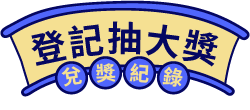
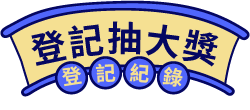
登記抽大獎 兌獎紀錄>登記紀錄

Changed region(s): [[0.364, 0.5727, 0.476, 0.7636], [0.252, 0.6, 0.336, 0.7909]]

diff --git a/record.html b/record.html
@@ -150,7 +150,7 @@
                     <section class="row">
                         <div class="col-12">
                             <div class="section-area record-title">
-                                <h3 class="section-title" style="background-image: url('images/title-c-02.png');">登記抽大獎 兌獎紀錄</h3>
+                                <h3 class="section-title" style="background-image: url('images/title-c-02.png');">登記抽大獎 登記紀錄</h3>
                             </div>
                             <table class="table-area table-a">
                                 <thead>
